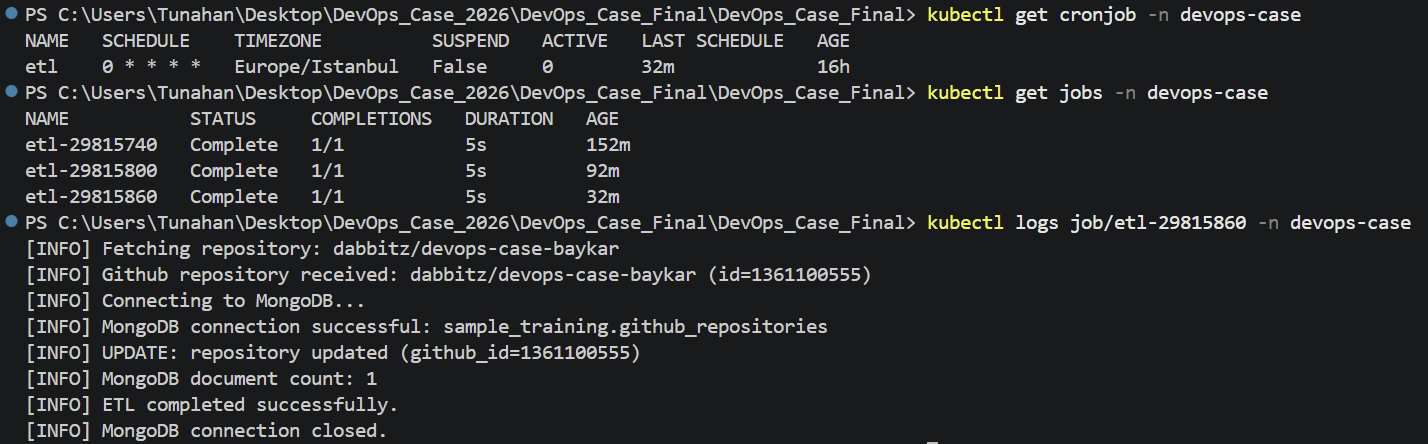
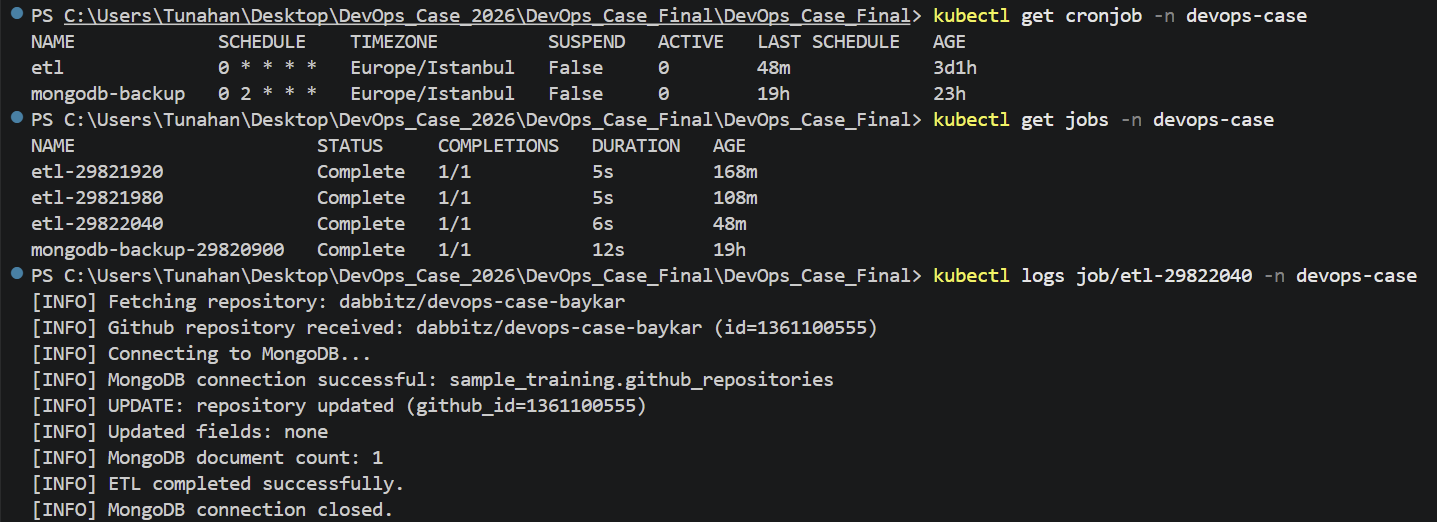
Finalize case documentation and evidence

Changed region(s): [[0.0, 0.0, 0.986, 0.9955], [0.6471, 0.9955, 0.6779, 1.0]]

diff --git a/TESLIM_KANITLARI.md b/TESLIM_KANITLARI.md
@@ -47,9 +47,9 @@ Ekran görüntülerinde gerçek credential, token, parola, private key veya hass
 - **ECR image'ları (backend):** `docs/screenshots/15-ecr-images-backend.png`
 - **ECR image'ları (frontend):** `docs/screenshots/16-ecr-images-frontend.png`
 - **ECR image'ları (etl):** `docs/screenshots/17-ecr-images-etl.png`
-- **Health check ve resource tanımları (backend):** `docs/screenshots/39-eks-healthchecks-resources-backend.png`
-- **Health check ve resource tanımları (frontend):** `docs/screenshots/40-eks-healthchecks-resources-frontend.png`
-- **Health check ve resource tanımları (etl):** `docs/screenshots/41-eks-cpu-memory-limits-etl.png`
+- **Health check ve resource tanımları (backend):** `docs/screenshots/41-eks-healthchecks-resources-backend.png`
+- **Health check ve resource tanımları (frontend):** `docs/screenshots/42-eks-healthchecks-resources-frontend.png`
+- **Health check ve resource tanımları (etl):** `docs/screenshots/43-eks-cpu-memory-limits-etl.png`
 - **Açıklama:** Uygulama AWS EKS üzerinde `devops-case-eks` cluster'ına deploy edilmiştir. Backend ve frontend Deployment'ları, Service kaynakları ve Python ETL CronJob'u EKS üzerinde çalışmaktadır. Container image'ları Amazon ECR üzerinden çekilmektedir.
 
 Backend ve frontend Deployment'larında liveness/readiness probe'ları, tüm ana workload'larda ise CPU ve memory resource requests/limits tanımlanmıştır. Backend Deployment'ında `maxSurge: 1` ve `maxUnavailable: 0` ile kontrollü RollingUpdate yapılandırılmıştır (7.2'de detaylandırılmıştır).
@@ -115,7 +115,7 @@ Aşağıdaki altı adımın tamamı kanıtlanmalıdır. Adımların aynı kayıt
 
 Bu bölümdeki 6.1–6.6 adımları, backup ve restore mekanizmasının gerçek veri üzerinde uçtan uca doğrulandığı **manuel uçtan uca test senaryosunu** göstermektedir.
 
-Production ortamındaki düzenli backup mekanizması ise ayrıca **7.7 – Üst Kriter #7** altında gösterilen otomatik EKS CronJob → Amazon S3 akışıdır.
+Production ortamındaki düzenli backup mekanizması ise ayrıca **7.6 – Üst Kriter #7** altında gösterilen otomatik EKS CronJob → Amazon S3 akışıdır.
 
 Aşağıdaki altı adım aynı `sample_training` database'i üzerinde ve sırayla gerçekleştirilmiştir.
 
@@ -197,11 +197,11 @@ Production ortamındaki otomatik backup'lar ise local `backups/` dizininde deği
 
 > Runbook, RPO/RTO hedefleri, backup schedule ve retention sınırlamaları `docs/backup-restore.md` içinde dokümante edilmiştir.
 
----
-
 ## 7. Logging, Monitoring ve Üst Kriterler
 
-Uygulanan logging, monitoring, alarm, güvenlik, release yönetimi ve diğer üst kriterlere ait kanıtlar aşağıda verilmiştir.
+Uyguladığınız logging, monitoring, alarm, Helm, Terraform, güvenlik taraması veya diğer üst kriterlere ait kanıtları ekleyin.
+
+Uygulanan logging, monitoring, alarm, güvenlik, release yönetimi ve diğer üst kriterlere ait kanıtlar aşağıda verilmiştir. 2, 3, 4, 5, 6 ve 7'nci üst kriterler tamamlanmıştır.
 
 ### 7.1 Üst Kriter #2 - Paketleme ve Ortam Yönetimi: Kustomize
 
@@ -241,13 +241,13 @@ Uygulanan logging, monitoring, alarm, güvenlik, release yönetimi ve diğer üs
 
 ### 7.5 Üst Kriter #6 - GitOps ve Release Stratejisi: Kontrollü Production Onayı
 
-- **Production approval bekleme görseli:** `docs/screenshots/47-production-approval-pending.png`
-- **Production approval sonrası deployment görseli:** `docs/screenshots/48-production-approval-approved.png`
+- **Production approval bekleme görseli:** `docs/screenshots/47-production-deployment-approval-pending.png`
+- **Production approval sonrası deployment görseli:** `docs/screenshots/48-production-deployment-approval-granted.png`
 - **Açıklama:** Production deployment'ı GitHub Actions üzerinde `production` Environment protection ile kontrollü production onayına bağlanmıştır. `main` branch'ine yapılan başarılı push sonrasında `validate-and-build` job'ı tamamlanmakta, ardından `deploy-eks` job'ı production approval bekleme durumuna geçmektedir.
 
-  Production deployment'ı yetkili reviewer tarafından onaylanmadan AWS EKS'e deployment yapılmamaktadır. Onay verildikten sonra `deploy-eks` job'ı çalıştırılmakta, ECR image push, EKS authentication, Kustomize deployment ve workload doğrulama adımları gerçekleştirilmektedir.
+  Production deployment'ı yetkili reviewer tarafından onaylanmadan AWS EKS'ye deployment yapılmamaktadır. Onay verildikten sonra `deploy-eks` job'ı çalıştırılmakta, ECR image push, EKS authentication, Kustomize deployment ve workload doğrulama adımları gerçekleştirilmektedir.
 
-  `docs/screenshots/47-production-approval-pending.png`, production deployment'ının onay beklediğini; `docs/screenshots/48-production-approval-approved.png` ise onay sonrasında deployment job'ının devam ederek başarıyla tamamlandığını göstermektedir.
+  `docs/screenshots/47-production-deployment-approval-pending.png`, production deployment'ının onay beklediğini; `docs/screenshots/48-production-deployment-approval-granted.png` ise onay sonrasında deployment job'ının devam ederek başarıyla tamamlandığını göstermektedir.
 
   Workflow içerisinde production deployment için:
 
@@ -262,7 +262,7 @@ Bu yapı, production'a yapılan her deployment'ın CI doğrulaması sonrasında 
 ### 7.6 Üst Kriter #7 - İleri Felaket Kurtarma: Off-Cluster Scheduled Backup
 
 - **Otomatik backup ve S3 kanıtı:** `docs/screenshots/49-backup-cronjob-scheduled-success.png`
-- **Açıklama:** MongoDB Atlas verilerinin cluster dışında tutulmasını sağlayan otomatik backup mekanizması AWS EKS üzerinde `mongodb-backup` Kubernetes CronJob ile çalışmaktadır. CronJob `0 2 * * *` schedule'ı (Saat 02.00'de) ve `Europe/Istanbul` timezone'u ile günlük olarak çalışacak şekilde yapılandırılmıştır.
+- **Açıklama:** MongoDB Atlas verilerinin cluster dışında tutulmasını sağlayan otomatik backup mekanizması AWS EKS üzerinde `mongodb-backup` Kubernetes CronJob ile çalışmaktadır. CronJob `0 2 * * *` schedule'ı (Saat 02.00'de) ve `Avrupa/İstanbul` timezone'u ile günlük olarak çalışacak şekilde yapılandırılmıştır.
 
   Backup workload'u `mongodump` ile `sample_training` database'ini `.archive.gz` formatında yedeklemekte ve timestamp'li arşiv dosyasını Amazon S3 üzerindeki `sample_training/` prefix'ine yüklemektedir.
 
@@ -284,7 +284,7 @@ Bu yapı, production'a yapılan her deployment'ın CI doğrulaması sonrasında 
 ### 7.8 ETL Scheduling
 
 - **EKS CronJob schedule görseli:** `docs/screenshots/50-eks-cronjob-schedule.png`
-- **Açıklama:** EKS üzerinde çalışan `etl` CronJob'un saatlik çalışmak üzere `0 * * * *` schedule'ını ve `Europe/Istanbul` timezone'unu kullandığı gösterilmektedir.
+- **Açıklama:** EKS üzerinde çalışan `etl` CronJob'un saatlik çalışmak üzere `0 * * * *` schedule'ını ve `Avrupa/İstanbul` timezone'unu kullandığı gösterilmektedir.
 
 ## 8. Ek Kanıtlar
 

diff --git a/SUBMISSION_EVIDENCE.md b/SUBMISSION_EVIDENCE.md
@@ -47,9 +47,9 @@ Screenshots must not expose real credentials, tokens, passwords, private keys, o
 - **ECR images (backend):** `docs/screenshots/15-ecr-images-backend.png`
 - **ECR images (frontend):** `docs/screenshots/16-ecr-images-frontend.png`
 - **ECR images (ETL):** `docs/screenshots/17-ecr-images-etl.png`
-- **Health check and resource definitions (backend):** `docs/screenshots/39-eks-healthchecks-resources-backend.png`
-- **Health check and resource definitions (frontend):** `docs/screenshots/40-eks-healthchecks-resources-frontend.png`
-- **Health check and resource definitions (ETL):** `docs/screenshots/41-eks-cpu-memory-limits-etl.png`
+- **Health check and resource definitions (backend):** `docs/screenshots/41-eks-healthchecks-resources-backend.png`
+- **Health check and resource definitions (frontend):** `docs/screenshots/42-eks-healthchecks-resources-frontend.png`
+- **Health check and resource definitions (ETL):** `docs/screenshots/43-eks-cpu-memory-limits-etl.png`
 - **Explanation:** The application has been deployed to the `devops-case-eks` cluster on AWS EKS. The backend and frontend Deployments, Service resources, and the Python ETL CronJob are running on EKS. Container images are pulled from Amazon ECR.
 
 Liveness/readiness probes are defined for the backend and frontend Deployments, while CPU and memory resource requests/limits are configured for all main workloads. The backend Deployment uses a controlled RollingUpdate strategy with `maxSurge: 1` and `maxUnavailable: 0`(detailed in Section 7.2).
@@ -115,7 +115,7 @@ All six steps below must be evidenced. It must be clear that the steps were perf
 
 The steps in Sections 6.1–6.6 represent the **manual end-to-end backup and restore test** performed against real application data.
 
-The regular production backup mechanism is separate and is shown under **Section 7.7 - Advanced Criteria #7**, where the automated EKS CronJob → Amazon S3 backup flow is evidenced.
+The regular production backup mechanism is separate and is shown under **Section 7.6 - Advanced Criteria #7**, where the automated EKS CronJob → Amazon S3 backup flow is evidenced.
 
 The following six steps were performed in order on the same `sample_training` database.
 
@@ -197,13 +197,11 @@ Production automated backups are not stored in the local `backups/` directory. T
 
 > The runbook, RPO/RTO targets, backup schedule, and retention limitations are documented in `docs/backup-restore.md`.
 
----
-
 ## 7. Logging, Monitoring, and Advanced Criteria
 
 Add evidence for any implemented logging, monitoring, alerting, Helm, Terraform, security scanning, or other advanced criteria.
 
-The evidence for the implemented logging, monitoring, alerting, security controls, and other advanced criteria is provided below.
+The evidence for the implemented logging, monitoring, alerting, security controls, and other advanced criteria is provided below. Upper criteria 2, 3, 4, 5, 6, and 7 are completed.
 
 ### 7.1 Advanced Criteria #2 - Packaging and Environment Management: Kustomize
 
@@ -243,13 +241,13 @@ The evidence for the implemented logging, monitoring, alerting, security control
 
 ### 7.5 Advanced Criteria #6 - GitOps and Release Strategy: Controlled Production Approval
 
-- **Production approval waiting screenshot:** `docs/screenshots/47-production-approval-pending.png`
-- **Post-approval deployment screenshot:** `docs/screenshots/48-production-approval-approved.png`
-- **Description:** Production deployment is protected by a controlled approval process using the `production` Environment in GitHub Actions. After a successful push to the `main` branch, the `validate-and-build` job completes, after which the `deploy-eks` job enters a waiting state for production approval.
+- **Production approval waiting screenshot:** `docs/screenshots/47-production-deployment-approval-pending.png`
+- **Post-approval deployment screenshot:** `docs/screenshots/48-production-deployment-approval-granted.png`
+- **Explanation:** Production deployment is protected by a controlled approval process using the `production` Environment in GitHub Actions. After a successful push to the `main` branch, the `validate-and-build` job completes, after which the `deploy-eks` job enters a waiting state for production approval.
 
   No deployment to AWS EKS is performed until the production deployment is approved by an authorized reviewer. After approval, the `deploy-eks` job runs and performs the ECR image push, EKS authentication, Kustomize deployment, and workload verification steps.
 
-  `docs/screenshots/47-production-approval-pending.png` shows that the production deployment is waiting for approval, while `docs/screenshots/48-production-approval-approved.png` shows that the deployment job continued and completed successfully after approval.
+  `docs/screenshots/47-production-deployment-approval-pending.png` shows that the production deployment is waiting for approval, while `docs/screenshots/48-production-deployment-approval-granted.png` shows that the deployment job continued and completed successfully after approval.
 
   The workflow defines the production deployment environment as:
 

diff --git a/docs/architecture.md b/docs/architecture.md
@@ -8,7 +8,7 @@ Ana deployment ortamı **AWS EKS**'tir. Frontend ve backend Kubernetes `Deployme
 
 AWS ortamında dış HTTP erişimi Envoy Gateway ve HTTPRoute üzerinden sağlanmakta, Envoy Gateway'in `LoadBalancer` Service'i AWS Elastic Load Balancer tarafından dışarıya açılmaktadır.
 
-CI/CD GitHub Actions üzerinden çalışmakta; başarılı `main` branch deployment'larında production deployment öncesinde **controlled production approval** uygulanmaktadır. Yetkili reviewer onayının ardından GitHub OIDC ile AWS IAM Role alınarak image'lar Amazon ECR'a gönderilmekte ve AWS EKS'e deploy edilmektedir.
+CI/CD GitHub Actions üzerinden çalışmakta; başarılı `main` branch deployment'larında production deployment öncesinde **controlled production approval** uygulanmaktadır. Yetkili reviewer onayının ardından GitHub OIDC ile AWS IAM Role alınarak image'lar Amazon ECR'a gönderilmekte ve AWS EKS'ye deploy edilmektedir.
 
 Yerel Docker Desktop Kubernetes ortamı geliştirme ve doğrulama amacıyla korunmuştur.
 
@@ -137,7 +137,6 @@ backend Deployment
 backend-service
         ↓
 Node.js / Express
-
 ```
 
 şeklinde çalışmaktadır.
@@ -325,7 +324,6 @@ overlays/test/
 overlays/prod/
         ↓
 Environment-specific configuration
-
 ```
 
 ---
@@ -446,7 +444,7 @@ Docker image build validation
 Trivy security scan
 ```
 
-`main` branch'ine başarılı push sonrasında gerçek cloud deployment gerçekleştirilir. Production deployment, GitHub Actions `production` Environment'ında tanımlı **controlled production approval** mekanizması nedeniyle yetkili reviewer onayı olmadan EKS'e uygulanmaz.
+`main` branch'ine başarılı push sonrasında gerçek cloud deployment gerçekleştirilir. Production deployment, GitHub Actions `production` Environment'ında tanımlı **controlled production approval** mekanizması nedeniyle yetkili reviewer onayı olmadan EKS'ye uygulanmaz.
 
 Deployment akışı:
 
@@ -461,15 +459,17 @@ GitHub OIDC
    ↓
 AWS IAM Role
    ↓
-Amazon ECR
+Docker image build
    ↓
-Kustomize prod overlay
+Amazon ECR push
    ↓
-AWS EKS
+Kustomize prod overlay validation
+   ↓
+Kustomize deployment → AWS EKS
    ↓
 Kubernetes rollout
    ↓
-Gateway / HTTPRoute
+Gateway / HTTPRoute validation
    ↓
 Backend healthcheck
    ↓
@@ -486,7 +486,7 @@ Deployment job'ı:
 - EKS kubeconfig'i oluşturur.
 - Kubernetes Secret kaynaklarını günceller.
 - Production Kustomize overlay'ini (`k8s/overlays/prod/`) server-side dry-run ile doğrular.
-- Production overlay'ini EKS'e uygular.
+- Production overlay'ini EKS'ye uygular.
 - Deployment image'larını commit SHA ile günceller.
 - Rollout ve dış erişim kontrollerini gerçekleştirir.
 - Gateway ve HTTPRoute kaynaklarını uygular.
@@ -559,7 +559,7 @@ Amazon ECR + AWS EKS
 
 IAM Role'un OIDC trust policy'si ilgili GitHub repository'nin `production` Environment'ı ile sınırlandırılmıştır. Production Environment yalnızca `main` branch'inden gelen deployment'ları kabul edecek şekilde yapılandırılmıştır.
 
-Production deployment'ın EKS'e uygulanmasından önce GitHub Actions `production` Environment'ı üzerinden yetkili reviewer onayı gerekmektedir.
+Production deployment'ın EKS'ye uygulanmasından önce GitHub Actions `production` Environment'ı üzerinden yetkili reviewer onayı gerekmektedir.
 
 EKS tarafında ayrıca EKS Access Entry ve namespace-scoped Kubernetes RBAC kullanılmaktadır.
 
@@ -783,7 +783,7 @@ Trivy
     → Container image / dependency / secret scanning
 
 GitHub OIDC + AWS IAM
-    → Cloud authentication
+    → CI/CD cloud authentication
 ```
 
-Bu ayrıştırma sayesinde frontend, backend ve ETL bağımsız container image'ları ve Kubernetes workload'ları olarak yönetilebilmekte; CI/CD üzerinden source commit ile ilişkilendirilmiş image'lar **controlled production approval sonrasında** AWS EKS'e deploy edilebilmekte ve MongoDB verileri günlük olarak cluster dışındaki Amazon S3 storage'a yedeklenebilmektedir.
+Bu ayrıştırma sayesinde frontend, backend ve ETL bağımsız container image'ları ve Kubernetes workload'ları olarak yönetilebilmekte; CI/CD üzerinden source commit ile ilişkilendirilmiş image'lar **controlled production approval sonrasında** AWS EKS'ye deploy edilebilmekte ve MongoDB verileri günlük olarak cluster dışındaki Amazon S3 storage'a yedeklenebilmektedir.

diff --git a/README.md b/README.md
@@ -122,7 +122,7 @@ http://[REDACTED].eu-central-1.elb.amazonaws.com/edit/<document-id>
 
 > **Önemli:** Kullanılan adresler, bu çalışma sırasında oluşturulmuş olan mevcut AWS Load Balancer'a aittir. Bu adresler **kalıcı bir production URL'si olarak değerlendirilmemelidir**. Özellikle EKS cluster'ı, Envoy Gateway veya Load Balancer yeniden oluşturulursa AWS yeni bir hostname atayabilir. Ayrıca teslim sonrasında kullanılan AWS kaynaklarının kaldırılması durumunda erişilemez hale gelebilir.
 
-> **Gerçek EKS erişim adresi:** Public repository'de Load Balancer hostname'i `[REDACTED]` olarak gösterilmiştir. Çalışma sırasında kullanılan gerçek erişim adresi teslim edilen `.zip` dosyasının içinde, projenin root'unda, bir `.txt` dosyasında paylaşılmıştır.
+> **Gerçek EKS erişim adresi:** Public repository'de Load Balancer hostname'i `[REDACTED]` olarak gösterilmiştir. Çalışma sırasında kullanılan gerçek erişim adresi teslim edilen `.zip` dosyasının içinde, projenin root'unda, `aws_url.txt` dosyasında paylaşılmıştır.
 
 ### Güncel EKS Erişim Adresini Bulma
 
@@ -571,7 +571,7 @@ Production deployment öncesinde Kustomize çıktısı server-side dry-run ile d
 kubectl apply --dry-run=server -k k8s/overlays/prod
 ```
 
-Ardından production overlay EKS'e uygulanır:
+Ardından production overlay EKS'ye uygulanır:
 
 ```powershell
 kubectl apply -k k8s/overlays/prod
@@ -597,7 +597,7 @@ ETL schedule:
 0 * * * *
 ```
 
-ETL `Europe/Istanbul` timezone'u kullanarak saatlik çalışmaktadır.
+ETL `Avrupa/İstanbul` timezone'u kullanarak saatlik çalışmaktadır.
 
 ETL aynı repository tekrar işlendiğinde `github_id` alanını kullanarak mevcut kaydı günceller.
 
@@ -732,7 +732,7 @@ Deployment job'ı:
 6. EKS cluster'ı için kubeconfig oluşturur.
 7. Kubernetes Secret kaynaklarını günceller.
 8. `k8s/overlays/prod` Kustomize overlay'ini `kubectl apply --dry-run=server -k k8s/overlays/prod` ile doğrular.
-9. Production overlay'ini `kubectl apply -k k8s/overlays/prod` ile EKS'e uygular.
+9. Production overlay'ini `kubectl apply -k k8s/overlays/prod` ile EKS'ye uygular.
 10. Deployment image'larını commit SHA tag'lerine günceller.
 11. Backend ve frontend rollout durumlarını kontrol eder.
 12. Gateway ve HTTPRoute kaynaklarını doğrular.
@@ -835,7 +835,7 @@ Backup schedule:
 Timezone:
 
 ```text
-Europe/Istanbul
+Avrupa/İstanbul
 ```
 
 Backup dosyaları UTC timestamp içeren ayrı archive dosyaları olarak oluşturulmaktadır.

diff --git a/docs/backup-restore.md b/docs/backup-restore.md
@@ -185,7 +185,7 @@ Backup ve restore sürecinin başarılı olduğunu doğrulamak için:
 
 ## 6. Uçtan uca test sonucu / End-to-end test result
 
-Temel manuel backup/restore E2E senaryosu 9 Eylül 2026 tarihinde gerçekleştirilmiştir. Otomatik EKS backup senaryosu ise 13 Eylül 2026 tarihinde gerçek scheduler çalışması ile doğrulanmıştır.
+Temel manuel backup/restore E2E senaryosu 10 Eylül 2026 tarihinde gerçekleştirilmiştir. Otomatik EKS backup senaryosu ise 13 Eylül 2026 tarihinde gerçek scheduler çalışması ile doğrulanmıştır.
 
 | # | Adım / Step                                      | Sonuç / Result                                                                                                                                                   | Kanıt / Evidence                                                                                                                                                                  |
 | - | ------------------------------------------------ | ---------------------------------------------------------------------------------------------------------------------------------------------------------------- | --------------------------------------------------------------------------------------------------------------------------------------------------------------------------------- |

diff --git a/README_EN.md b/README_EN.md
@@ -122,7 +122,7 @@ http://[REDACTED].eu-central-1.elb.amazonaws.com/edit/<document-id>
 
 > **Important:** The addresses used belong to the AWS Load Balancer created during this project. They should **not be considered permanent production URLs**. In particular, if the EKS cluster, Envoy Gateway, or Load Balancer is recreated, AWS may assign a new hostname. The addresses may also become inaccessible if the AWS resources used for the project are removed after submission.
 
-> **Actual EKS access address:** In the public repository, the Load Balancer hostname is shown as `[REDACTED]`. The actual access address used during the project is provided in a `.txt` file located in the project root of the submitted `.zip` file.
+> **Actual EKS access address:** In the public repository, the Load Balancer hostname is shown as `[REDACTED]`. The actual access address used during the project is provided in the `aws_url.txt` file located in the project root of the submitted `.zip` file.
 
 ### Finding the Current EKS Access Address
 

diff --git a/docs/findings.md b/docs/findings.md
@@ -144,13 +144,13 @@ ile doğrulanmaktadır. Geçersiz değerlerde uygun HTTP response döndürülmek
 
 ## Finding 11
 
-**Önem Derecesi:** Yüksek
+**Önem Derecesi:** Orta
 
 **Dosya Yolu:** `mern-project\client\cypress\integration\endToEnd.spec.js`
 
-**Sorun:** Cypress testi yanlış route'a gidiyordu. Test `/records` route'una yönlendirildi. Test URL'si hâlen local test ortamına bağlı olduğundan farklı ortamlarda çalıştırılması gerektiğinde environment/configuration üzerinden yönetilebilir.
+**Sorun:** Cypress testi başlangıçta yanlış route'u ziyaret etmiştir. Bu nedenle beklenen records ekranına ulaşmadan test akışı başarısız olmuştur.
 
-**Çözüm:** Testin başlangıç URL'si `/records` route'una yönlendirilmiştir:
+**Çözüm:** Test başlangıç URL'si uygulamanın mevcut `/records` route'una güncellenmiştir.
 
 ```js
 cy.visit("http://localhost:3000/records");

diff --git a/CASE_END_ANSWERS.md b/CASE_END_ANSWERS.md
@@ -523,7 +523,7 @@ Evidence: the `Backup and Restore` section of `SUBMISSION_EVIDENCE.md`.
 
 Automatic scheduled backup evidence:
 
-`docs/screenshots/47-backup-cronjob-scheduled-success.png`
+`docs/screenshots/49-backup-cronjob-scheduled-success.png`
 
 ---
 
